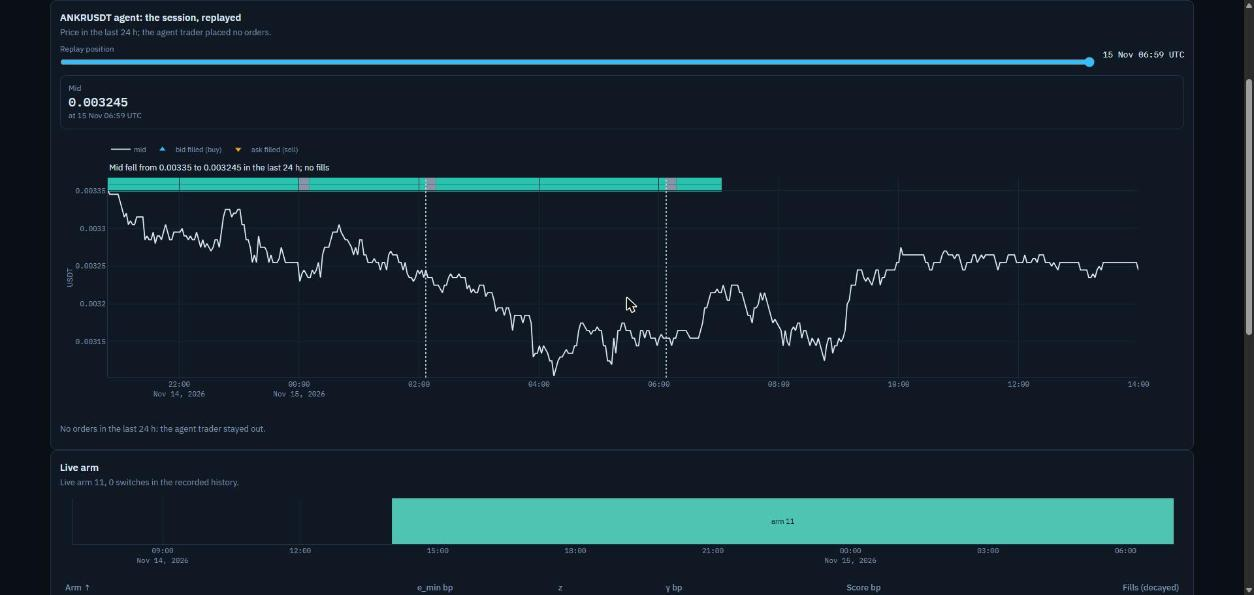
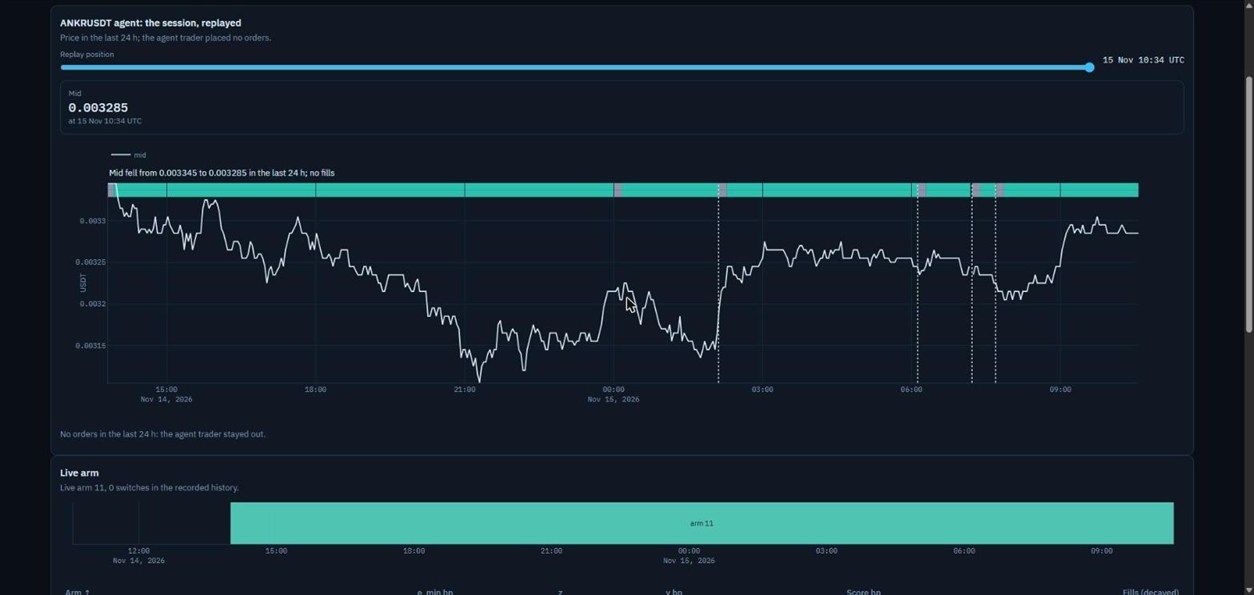
UTC spec U2: replace the shifted session chart screenshots, guide progress line
docs/img/session-chart-exec-test-wide.jpg and session-chart-agent-wide.jpg
showed the live chart drawn in local time (axis to 14:00 while the readout
said 06:58 UTC). Retaken at 24 h from localhost after U1: axis end, readout
and Mid tile name the same UTC time, and the loss-stop bands start at the
last fill. Same names and size (1254x595). The showcase-* images predate the
session chart and show no shifted axis, so they are unchanged.

DASHBOARD_GUIDE.md: one Progress line for U1-U2.

Public copy rebuilt with publish_dashboard --live-snapshot (dashboard_public/
is gitignored; not deployed). No test changes.

diff --git a/docs/DASHBOARD_GUIDE.md b/docs/DASHBOARD_GUIDE.md
@@ -66,6 +66,9 @@ simulation against live. Those are also the things a trading interviewer will as
   - C4 `--live-snapshot` also copies the chart files (`CHART_ALLOW`) and `dist_bp` is on the fills allow-list.
   - As with S1/S6, a running supervisor keeps rewriting the session bundles with the code it started with (no `dist_bp`, so the quote strip
     shows no fill markers) until it is restarted; run `python -m scripts.build_session` before publishing. Screenshots: `docs/img/session-chart-*`.
+- **Session chart in UTC, 15 Nov 2026: `docs/DASHBOARD_SESSION_CHART_UTC_SPEC.md`, tasks U1-U2.** `plotX` in `js/session_chart.js` gives Plotly
+  ISO UTC strings, so traces, bands and lines share one UTC axis on every viewer's machine (3db8a22); the PC status activity chart in
+  `js/views/live.js` got the same fix (39a028a); public copy republished with `--live-snapshot` and the Execution test and Agent screenshots replaced.
 
 ## Live tabs (added 14 Nov 2026)
 
